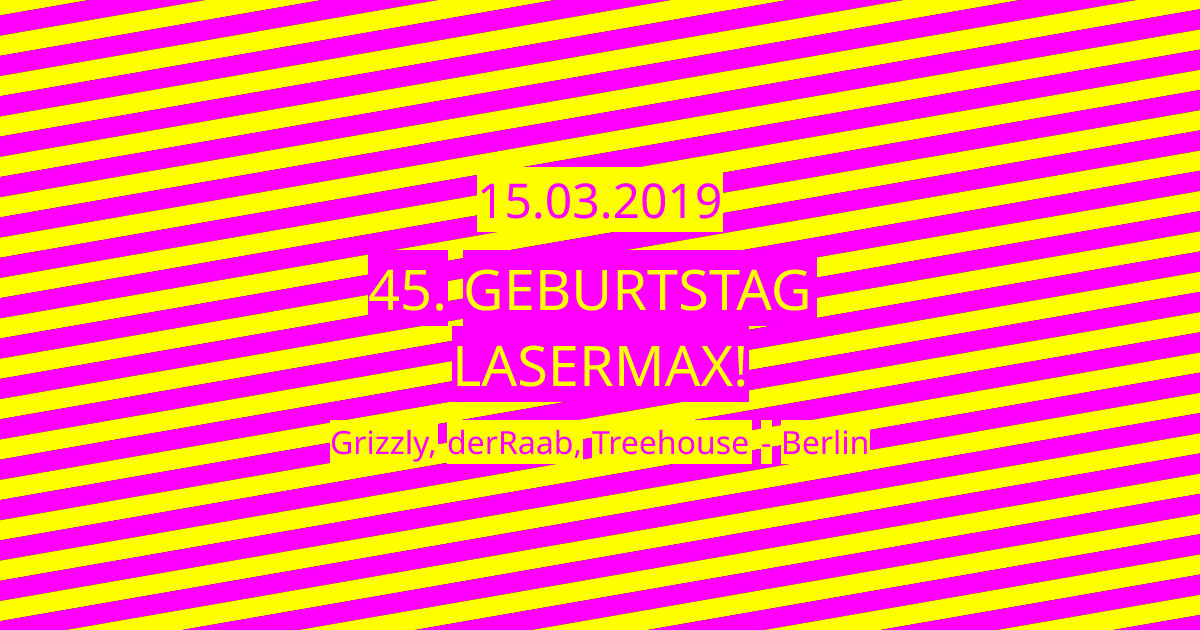
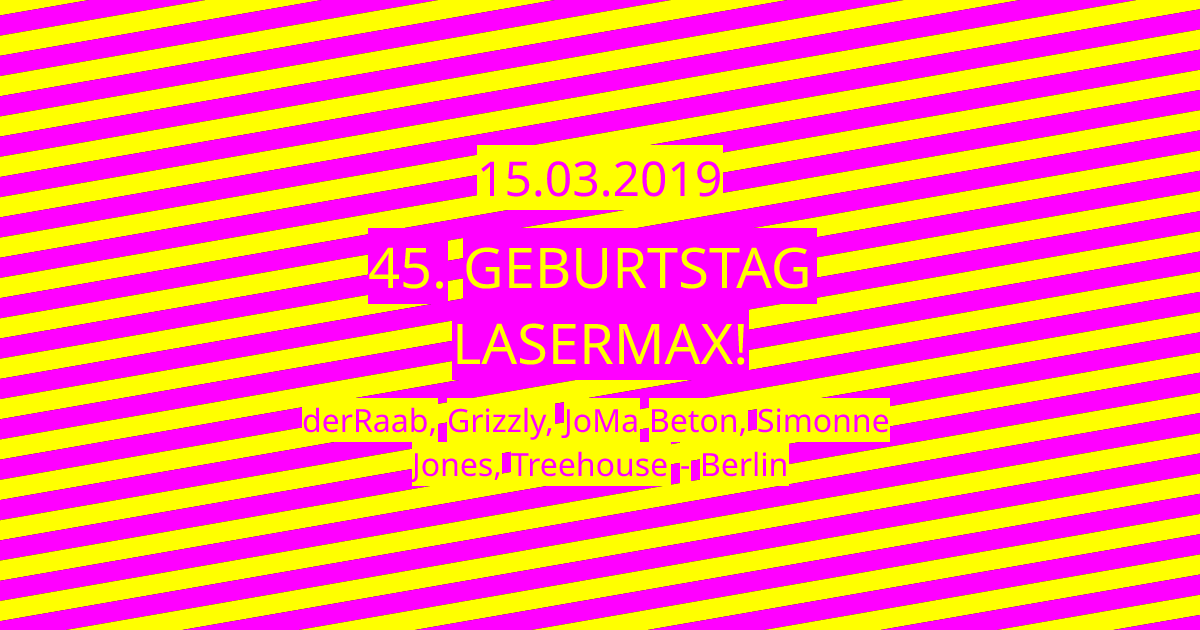
Updated 2019-03-15

Changed region(s): [[0.2467, 0.2111, 0.74, 0.7841]]

diff --git a/docs/index.html b/docs/index.html
@@ -26,13 +26,13 @@
     <meta property="og:description" content="About unicorns and DJ dates. My name is DERRAAB, and I’ve been passionate about electronic music for as long as I can remember.">
     
     <!-- Primary image - 1200x630 (1.91:1 aspect ratio) -->
-    <meta property="og:image" content="https://onlyraab.com/img/social/index-1200x630.jpg?v=1787741824517">
+    <meta property="og:image" content="https://onlyraab.com/img/social/index-1200x630.jpg?v=1787835469598">
     <meta property="og:image:width" content="1200">
     <meta property="og:image:height" content="630">
     <meta property="og:image:type" content="image/jpeg">
     
     <!-- Secondary image - 600x600 (square aspect ratio) -->
-    <meta property="og:image" content="https://onlyraab.com/img/social/index-600x600.jpg?v=1787741824517">
+    <meta property="og:image" content="https://onlyraab.com/img/social/index-600x600.jpg?v=1787835469598">
     <meta property="og:image:width" content="600">
     <meta property="og:image:height" content="600">
     <meta property="og:image:type" content="image/jpeg">
@@ -44,7 +44,7 @@
     <!-- Twitter will use og:image, og:title, og:description automatically -->
     
     <!-- Load the compiled LESS styles -->
-    <link rel="stylesheet" href="index.css?v=1787741824517">
+    <link rel="stylesheet" href="index.css?v=1787835469598">
 </head>
 <body class="body--index">
     <header>
@@ -98,7 +98,7 @@
 <a href="dates/2020-01-24.html" class="date" data-iso-date="2020-01-24"><h3>24.01.2020</h3><h4>Pagenkopf Jubiläum</h4><p>Privat</p><h5>DJs:</h5><ul><li>derRaab</li></ul><h5>Location:</h5><p>NBI Bar - Zionskirchstraße 5 - 10119 Berlin</p></a>
 <a href="dates/2020-01-10.html" class="date" data-iso-date="2020-01-10"><h3>10.01.2020</h3><h4>Iven Geburtstag</h4><p>Privat</p><h5>DJs:</h5><ul><li>derRaab</li></ul><h5>Location:</h5><p>Trompete - Lützowplatz 9 - 10785 Berlin</p></a>
 <a href="dates/2019-05-05.html" class="date" data-iso-date="2019-05-05"><h3>05.05.2019</h3><h4>Topf sucht Deckel</h4><p>Singleparty privat</p><h5>DJs:</h5><ul><li>derRaab</li></ul><h5>Location:</h5><p>Privatstraße - Berlin</p></a>
-<a href="dates/2019-03-15.html" class="date" data-iso-date="2019-03-15"><h3>15.03.2019</h3><h4>45. Geburtstag Lasermax!</h4><h5>DJs:</h5><ul><li>Grizzly</li><li>derRaab</li></ul><h5>Location:</h5><p>Treehouse - Berlin</p></a>
+<a href="dates/2019-03-15.html" class="date" data-iso-date="2019-03-15"><h3>15.03.2019</h3><h4>45. Geburtstag Lasermax!</h4><h5>DJs:</h5><ul><li>derRaab</li><li>Grizzly</li><li>JoMa Beton</li><li>Simonne Jones</li></ul><h5>Location:</h5><p>Treehouse - Berlin</p></a>
 <a href="dates/2017-04-28.html" class="date" data-iso-date="2017-04-28"><h3>28.04.2017</h3><h4>derRaab ab 21 h @ Zur Fetten Ecke</h4><h5>DJs:</h5><ul><li>derRaab (Vylikiste / electronicSat)</li></ul><h5>Location:</h5><p>Zur Fetten Ecke - Schlesische Str. 16 - 10997 Berlin</p></a>
 <a href="dates/2016-03-05.html" class="date" data-iso-date="2016-03-05"><h3>05.03.2016</h3><h4>Burlesque Musique Night</h4><h5>Live:</h5><ul><li>Helmut Ebritsch (Burlesque Musique | Lucidflow)</li></ul><h5>DJs:</h5><ul><li>Aka Aka feat. Thalstroem (Burlesque Musique | Stil vor Talent)</li><li>Teenage Mutants (Suara | Light my fire )</li><li>Dan Caster (Katermukke | Stil vor Talent)</li><li>Michael Placke (Exquisite Berlin)</li><li>Zigan Aldi (Burlesque Musique | 3000°)</li><li>Cotumo (Burlesque Musique)</li><li>derRaab (Vylkiste | electronicSat)</li><li>Audio Noise (Klangkost)</li><li>Bonfante (Burlesque Musique)</li></ul><h5>Location:</h5><p>Ritter Butzke - Ritterstr. 26 - 10969 Berlin</p></a>
 <a href="dates/2015-03-21.html" class="date" data-iso-date="2015-03-21"><h3>21.03.2015</h3><h4>derRaab @ Werketage</h4><h5>DJs:</h5><ul><li>derRaab (Vylikiste / electronicSat)</li></ul><h5>Location:</h5><p>Werketage - Saarbrücker Str. 24 - 10405 Berlin</p></a>
@@ -285,6 +285,6 @@
     </footer>
     
     <!-- Load the compiled TypeScript -->
-    <script type="module" src="index.js?v=1787741824517"></script>
+    <script type="module" src="index.js?v=1787835469598"></script>
 </body>
 </html>

diff --git a/docs/dates/2019-03-15.html b/docs/dates/2019-03-15.html
@@ -14,8 +14,8 @@
     
     <link rel=”canonical” href=”https://onlyraab.com/dates/2019-03-15.html”/>
     <meta name="viewport" content="width=device-width, initial-scale=1.0">
-    <meta name="description" content="45. Geburtstag Lasermax! | 15.03.2019 | Grizzly, derRaab, Treehouse - Berlin">
-    <meta name="keywords" content="Grizzly, derRaab, Treehouse - Berlin">
+    <meta name="description" content="45. Geburtstag Lasermax! | 15.03.2019 | derRaab, Grizzly, JoMa Beton, Simonne Jones, Treehouse - Berlin">
+    <meta name="keywords" content="derRaab, Grizzly, JoMa Beton, Simonne Jones, Treehouse - Berlin">
     <meta name="author" content="OnlyRaab.com | derRaab">
     <title>45. Geburtstag Lasermax! | 15.03.2019</title>
 
@@ -23,22 +23,22 @@
     <meta property="og:type" content="website">
     <meta property="og:url" content="https://onlyraab.com/dates/2019-03-15.html"/>
     <meta property="og:title" content="45. Geburtstag Lasermax!">
-    <meta property="og:description" content="45. Geburtstag Lasermax! | 15.03.2019 | Grizzly, derRaab, Treehouse - Berlin">
+    <meta property="og:description" content="45. Geburtstag Lasermax! | 15.03.2019 | derRaab, Grizzly, JoMa Beton, Simonne Jones, Treehouse - Berlin">
     
     <!-- Primary image - 1200x630 (1.91:1 aspect ratio) -->
-    <meta property="og:image" content="https://onlyraab.com/img/social/dates/2019-03-15.png?v=1787741824517">
+    <meta property="og:image" content="https://onlyraab.com/img/social/dates/2019-03-15.png?v=1787835469598">
     <meta property="og:image:width" content="1200">
     <meta property="og:image:height" content="630">
     <meta property="og:image:type" content="image/png">
     
-    <meta property="og:site_name" content="45. Geburtstag Lasermax! | 15.03.2019 | Grizzly, derRaab, Treehouse - Berlin">
+    <meta property="og:site_name" content="45. Geburtstag Lasermax! | 15.03.2019 | derRaab, Grizzly, JoMa Beton, Simonne Jones, Treehouse - Berlin">
     
     <!-- Twitter will use Open Graph fallbacks -->
     <meta name="twitter:card" content="summary_large_image">
     <!-- Twitter will use og:image, og:title, og:description automatically -->
     
     <!-- Load the compiled LESS styles -->
-    <link rel="stylesheet" href="/index.css?v=1787741824517">
+    <link rel="stylesheet" href="/index.css?v=1787835469598">
 </head>
 <body class="body--date">
     <header>
@@ -59,7 +59,7 @@
             <a class="scroll-down" href="#details">▼ Details ▼</a>
         </section>
         <section class="details" id="details">
-<div class="date" data-iso-date="2019-03-15"><h3>15.03.2019</h3><h4>45. Geburtstag Lasermax!</h4><h5>DJs:</h5><ul><li>Grizzly</li><li>derRaab</li></ul><h5>Location:</h5><p>Treehouse - Berlin</p></div>
+<div class="date" data-iso-date="2019-03-15"><h3>15.03.2019</h3><h4>45. Geburtstag Lasermax!</h4><h5>DJs:</h5><ul><li>derRaab</li><li>Grizzly</li><li>JoMa Beton</li><li>Simonne Jones</li></ul><h5>Location:</h5><p>Treehouse - Berlin</p></div>
         </section>
     </article>
     <footer>
@@ -72,6 +72,6 @@
         <div></div>
     </footer>
     <!-- Load the compiled TypeScript -->
-    <script type="module" src="/index.js?v=1787741824517"></script>
+    <script type="module" src="/index.js?v=1787835469598"></script>
 </body>
 </html>
